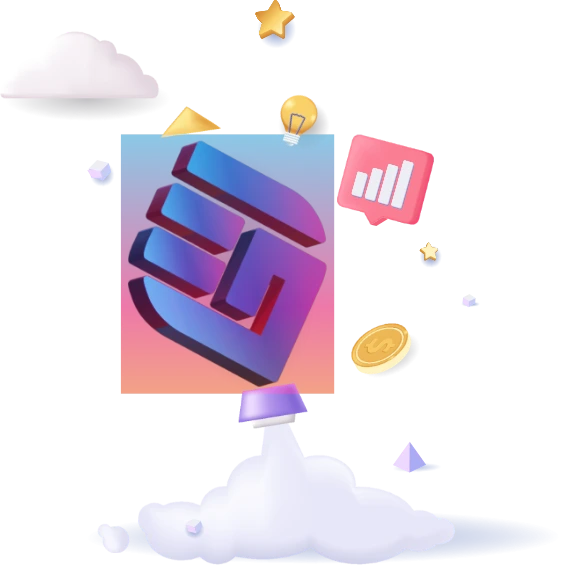
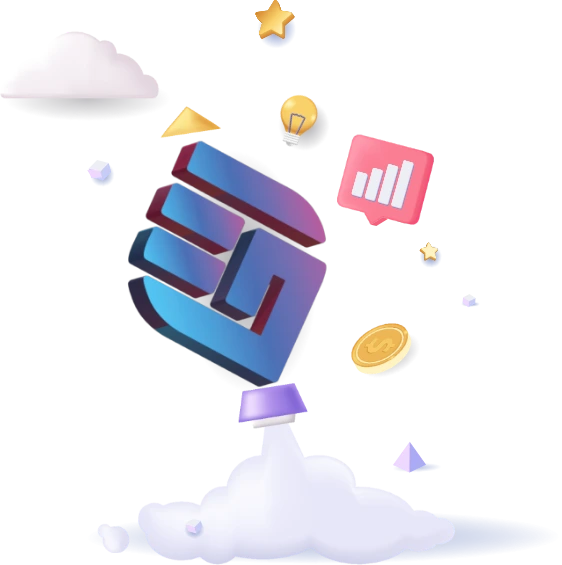
Add files via upload

Changed region(s): [[0.2117, 0.2106, 0.605, 0.7221], [0.3327, 0.331, 0.3932, 0.3611]]

diff --git a/pages/blog/[id]/[title].jsx b/pages/blog/[id]/[title].jsx
@@ -57,7 +57,7 @@ const Article = ({ mainData, article }) => {
         </div>
 
         <div className="container py-5">
-          <header className={`pt-4 pb-4 ${style.header}`}>
+          <header className={`pt-4 pb-4 mt-4 ${style.header}`}>
             <div
               className={`${style.back} flex-center justify-content-start gap-1`}
             >
@@ -71,18 +71,24 @@ const Article = ({ mainData, article }) => {
             </div>
 
             <div className="bottom mt-4">
-              <p className="display-6 mb-1">{article.title}</p>
+              <p className="display-6 mb-2 font-bold fw-bold">
+                {article.title}
+              </p>
 
-              <p
-                dangerouslySetInnerHTML={{ __html: article.article }}
-                className={`text-muted mb-4 ${style.lineOfBody}`}
-              />
-              <p className={`${style.date} small pt-2`}>{article.date}</p>
+              <div className={`mb-4`}>
+                <p className={`${style.lineOfBody}`}>
+                  {/* Get description without html tags */}
+                  {article.article
+                    .replace(/<\/?[^>]+(>|$)/g, " ")
+                    .replace(/(&)[a-z]+;/g, " ")}
+                </p>
+              </div>
+              <p className={`${style.date} pt-2`}>{article.date}</p>
             </div>
           </header>
 
           <main>
-            <article className={`${style.body} border rounded`}>
+            <article className={`${style.body} mx-md-3`}>
               <div className={`${style.img} mb-4`}>
                 <img
                   draggable={false}
@@ -95,19 +101,19 @@ const Article = ({ mainData, article }) => {
               <div className="container">
                 <p
                   style={{ backgroundColor: "#B84A85" }}
-                  className={`${style.hash} rounded px-3 py-1 mb-4`}
+                  className={`${style.hash} rounded px-3 py-1 pt-2 mb-4`}
                 >
                   {article.hash}
                 </p>
 
                 <article
-                  className="mb-3 px-3"
+                  className="mb-3 px-3 font-bold fw-bold lh-lg"
                   dangerouslySetInnerHTML={{ __html: article.article }}
                 />
               </div>
             </article>
 
-            <footer className="flex-between align-items-center px-2 pt-3">
+            <footer className="mx-md-3 px-md-4 flex-between align-items-center px-2 pt-3">
               <p className="fw-bold m-0">شارك الخبر</p>
               <article className={`${style.shareBox} flex-center`}>
                 <ul className="list-unstyled m-0 w-fit flex-center gap-3 px-2 py-1 rounded">

diff --git a/styles/landing.module.scss b/styles/landing.module.scss
@@ -42,19 +42,21 @@
 
     .backDropImgs {
       img {
-        width: 600px;
+        width: 900px;
         position: absolute;
-        opacity: 0.6;
       }
 
       img:nth-of-type(1) {
-        right: -200px;
+        right: -450px;
+        bottom: -80px;
       }
 
       img:nth-of-type(2) {
         left: -200px;
         top: -150px;
+        opacity: 0.6;
       }
+
       z-index: -5;
     }
 
@@ -117,13 +119,14 @@
         border-radius: 50%;
         background-color: #e74152;
         position: absolute;
-        right: -20%;
-        top: -80%;
-        z-index: 99;
+        right: -217px;
+        top: -382px;
+        z-index: 130;
+        display: block;
       }
 
       .logoIcon {
-        width: 300px;
+        width: 550px;
         position: absolute;
         right: 150px;
         top: 45%;
@@ -174,6 +177,10 @@
 
   .advantagesSection {
     header {
+      width: 100%;
+      max-width: 700px;
+      margin: auto;
+
       h2 {
         display: flex;
         justify-content: center;
@@ -183,7 +190,7 @@
         &::before {
           content: "";
           background-image: url("../public/assets/landing/selection-icon.webp");
-          height: 42px;
+          height: 62px;
           width: 42px;
           transform: scale(0.8);
           background-repeat: no-repeat;

diff --git a/styles/layout/footer.module.scss b/styles/layout/footer.module.scss
@@ -1,17 +1,56 @@
 .footer {
-  background: linear-gradient(
-    90deg,
-    rgba(86, 86, 212, 1) 46%,
-    rgba(65, 173, 228, 1) 80%
-  );
+  position: relative;
   margin-top: 70px;
+  overflow: hidden;
+  padding-bottom: 70px;
+  padding-top: 4rem;
 
-  .footerTap {
-    opacity: 0.9;
-    transition: 0.2s;
+  .backDrop {
+    width: 100%;
+    height: 100%;
+    position: absolute;
+    inset: 0;
+    background: linear-gradient(
+      90deg,
+      rgba(86, 86, 212, 0.8) 46%,
+      rgba(65, 173, 228, 0.8) 80%
+    );
 
-    &:hover {
-      opacity: 1;
+    .mainColor {
+      width: 100%;
+      height: 100%;
+      background-image: url("../../public/assets/footer/footer-bg.png");
+      background-repeat: no-repeat;
+      background-size: cover;
+    }
+  }
+
+  .waterMark {
+    position: absolute;
+    right: 37px;
+    top: 180px;
+    z-index: 99;
+
+    img {
+      width: 300px;
+    }
+  }
+
+  .mainFooter {
+    z-index: 99;
+
+    & * {
+      z-index: 99;
+      position: relative;
+    }
+
+    .footerTap {
+      opacity: 0.9;
+      transition: 0.2s;
+
+      &:hover {
+        opacity: 1;
+      }
     }
   }
 }

diff --git a/styles/services.module.scss b/styles/services.module.scss
@@ -80,49 +80,6 @@
         text-align: start !important;
       }
     }
-
-    .gridNet {
-      display: grid;
-      gap: 10px;
-      grid-template-columns: repeat(6, 1fr);
-
-      @media (max-width: 767px) {
-        display: flex;
-        flex-direction: column;
-      }
-
-      // All
-      & :nth-child(odd) {
-        grid-column-start: 1;
-        grid-column-end: 4;
-      }
-
-      & :nth-child(even) {
-        grid-column-start: 4;
-        grid-column-end: 7;
-      }
-
-      // Secound Row
-      & :nth-child(3) {
-        grid-column-start: 1;
-        grid-column-end: 3;
-      }
-
-      & :nth-child(4) {
-        grid-column-start: 3;
-        grid-column-end: 5;
-      }
-
-      & :nth-child(5) {
-        grid-column-start: 5;
-        grid-column-end: 7;
-      }
-
-      & :nth-child(6) {
-        grid-column-start: 1;
-        grid-column-end: 7;
-      }
-    }
   }
 }
 

diff --git a/styles/global/helper.scss b/styles/global/helper.scss
@@ -54,6 +54,11 @@
   justify-content: space-around;
 }
 
+.flex-aligned {
+  display: flex;
+  align-items: center;
+}
+
 .select-none {
   user-select: none;
 }
@@ -107,7 +112,7 @@
 }
 
 // Min height
-@for $i from 1 through 100 {
+@for $i from 1 through 150 {
   .min-h-#{$i}vh {
     min-height: #{$i}vh;
   }
@@ -120,6 +125,32 @@
   }
 }
 
+// Min width
+@for $i from 50 through 500 {
+  .min-w-#{$i} {
+    min-width: #{$i}px;
+  }
+}
+
 .text-main {
   color: $main-color;
+}
+
+.font-bold {
+  font-family: $font-blod !important;
+}
+
+// text cut
+@for $i from 0 through 5 {
+  .text-cut-#{$i} {
+    width: 100%;
+    display: -webkit-box;
+    -webkit-line-clamp: $i;
+    -webkit-box-orient: vertical;
+    overflow: hidden;
+  }
+}
+
+.text-md {
+  font-size: 0.8em !important;
 }

diff --git a/pages/contact/index.jsx b/pages/contact/index.jsx
@@ -44,10 +44,10 @@ const Contact = ({ mainData }) => {
         </div>
 
         <div className="container py-5">
-          <header className={`pt-5 pb-3 mt-5 flex-center ${style.header}`}>
+          <header className={`pt-5 pb-4 mt-5 flex-center ${style.header}`}>
             <div className={`${style.info}`}>
               <h2>تواصل معنا</h2>
-              <p className="small text-muted">
+              <p className="text-muted">
                 لأننا نؤمن أن وجود إستراتيجية تسويقية صحيحة أم ٌر هام، إذ من
                 خلالها يمكن رسم خريطة الوصول إلى تحقيق النجاح وإزدهار الأعمال
               </p>

diff --git a/pages/blog/index.jsx b/pages/blog/index.jsx
@@ -47,8 +47,8 @@ const Blog = ({ mainData }) => {
         <div className="container py-5">
           <header className={`pt-5 pb-4 mt-5 flex-center ${style.header}`}>
             <div className={`${style.info}`}>
-              <h2>المدونة</h2>
-              <p className="small text-muted">
+              <h2 className="font-bold">المدونة</h2>
+              <p className="text-muted">
                 لأننا نؤمن أن وجود إستراتيجية تسويقية صحيحة أم ٌر هام، إذ من
                 خلالها يمكن رسم خريطة الوصول إلى تحقيق النجاح وإزدهار الأعمال
               </p>

diff --git a/styles/global/variables.scss b/styles/global/variables.scss
@@ -1,6 +1,14 @@
-@import url("/assets/fonts/FFShamelFamily-SansOneBold.ttf");
-@import url("/assets/fonts/FFShamelFamily-SansOneBook.ttf");
+@font-face {
+  font-family: SansOneBook;
+  src: url("/assets/fonts/FFShamelFamily-SansOneBook.ttf");
+}
+
+@font-face {
+  font-family: BoldSansOneBook;
+  src: url("/assets/fonts/FFShamelFamily-SansOneBook.ttf");
+}
 
 $main-color: #b84a85;
 $secound-color: #3dbee6;
-$font-main: "FFShamelFamily-SansOneBook", sans-serif;
+$font-main: SansOneBook, sans-serif;
+$font-blod: BoldSansOneBook, sans-serif;

diff --git a/styles/article.module.scss b/styles/article.module.scss
@@ -16,7 +16,7 @@ $main-color: #b84a85;
     }
 
     .lineOfBody {
-      @include cutlines(1);
+      @include cutlines(2);
       font-weight: 550;
     }
 
@@ -30,7 +30,7 @@ $main-color: #b84a85;
       background-color: #fff;
 
       .img {
-        max-height: 350px;
+        max-height: 450px;
         overflow: hidden;
 
         img {
